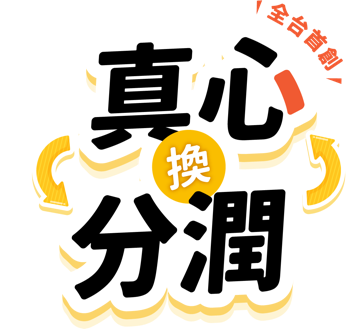
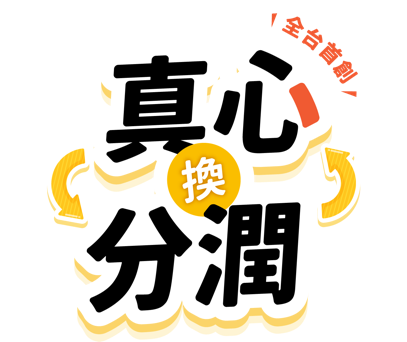
0401/pilot

diff --git a/event/css/all.css b/event/css/all.css
@@ -724,7 +724,7 @@ html {
 }
 
 body {
-  width: 100vw;
+  width: 100%;
   overflow-x: hidden !important;
   background-color: #FFDE8D;
 }
@@ -807,7 +807,7 @@ img {
   background-repeat: no-repeat;
   background-size: cover;
   background-position: center;
-  background-size: 100%;
+  background-size: contain;
   background-position: bottom;
 }
 
@@ -826,27 +826,30 @@ img {
 }
 
 .hero__title {
-  margin-top: 45px;
-  margin-bottom: 20px;
+  margin: 10px auto;
   background-image: url("../pilot/img/heroTitle.png");
   text-indent: 101%;
   white-space: nowrap;
   overflow: hidden;
-  width: 346px;
-  height: 329px;
+  background-size: contain;
+  width: 407px;
+  height: 342px;
+}
+
+@media (max-width: 408px) {
+  .hero__title {
+    width: 320px;
+    height: 269px;
+  }
+}
+
+@media (max-width: 330px) {
+  .hero {
+    background-position: 0px 124%;
+  }
 }
 
 .intro {
-  display: -ms-flexbox;
-  display: flex;
-  -ms-flex-pack: center;
-      justify-content: center;
-  -ms-flex-align: center;
-      align-items: center;
-  -ms-flex-direction: column;
-      flex-direction: column;
-  -ms-flex-wrap: wrap;
-      flex-wrap: wrap;
   position: relative;
   padding: 50px 10px 160px 10px;
   margin-top: -2px;
@@ -854,8 +857,14 @@ img {
   background-repeat: no-repeat;
   background-size: cover;
   background-position: center;
-  background-size: auto;
+  background-size: contain;
   background-position: bottom;
+}
+
+.intro img {
+  display: block;
+  margin-left: auto;
+  margin-right: auto;
 }
 
 .intro__title {
@@ -863,9 +872,17 @@ img {
   text-indent: 101%;
   white-space: nowrap;
   overflow: hidden;
-  width: 402px;
-  height: 143px;
+  width: 427px;
+  height: 149px;
+  background-size: contain;
   margin-bottom: 20px;
+}
+
+@media (max-width: 403px) {
+  .intro__title {
+    width: 320px;
+    height: 113px;
+  }
 }
 
 .intro:after {

diff --git a/event/pilot/scss/_page.scss b/event/pilot/scss/_page.scss
@@ -14,14 +14,20 @@
 		@include size(223px,31px);
 	}
 	&__title{
-		margin-top: 45px;
-		margin-bottom: 20px;
+		margin: 10px auto ;
 		@include text-hide('../pilot/img/heroTitle.png');
-		@include size(346px,329px);
+		background-size: contain;
+		@include size(407px,342px);
+		@include rwd(408px){
+			@include size(320px,269px);
+		};
 	}
 	@include bgimg('../pilot/img/heroBg.png');
-	background-size: 100%;
+	background-size: contain;
 	background-position: bottom ;
+	@include rwd(330px){
+		background-position: 0px 124%;
+	};
 }
 
 
@@ -29,17 +35,26 @@
 
 
 .intro{
-	@include df_center();
+	img{
+		display: block;
+		margin-left: auto;
+		margin-right: auto;
+	}
 	position: relative;
 	padding: 50px 10px 160px 10px;
 	margin-top: -2px;
 	@include bgimg('../pilot/img/introBg.png');
-	background-size: auto;
+	background-size: contain;
 	background-position: bottom;
+
 	&__title{
 		@include text-hide('../pilot/img/introTitle.png');
-		@include size(402px,143px);
+		@include size(427px,149px);
+		background-size: contain;
 		margin-bottom: 20px;
+		@include rwd(403px){
+			@include size(320px,113px);
+		};
 	}
 	&:after{
 		content: '';

diff --git a/event/pilot/scss/_layout.scss b/event/pilot/scss/_layout.scss
@@ -10,7 +10,7 @@ html{
 }
 
 body{
-	width: 100vw;
+	width: 100%;
 	overflow-x: hidden !important;
 	background-color: $bg-primary;
 }
